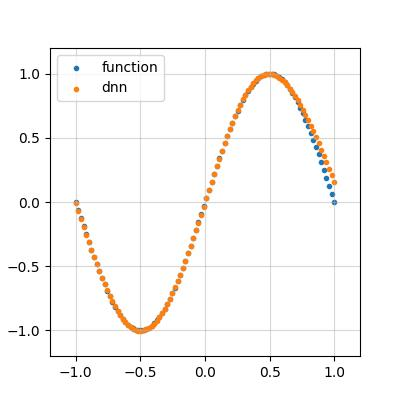
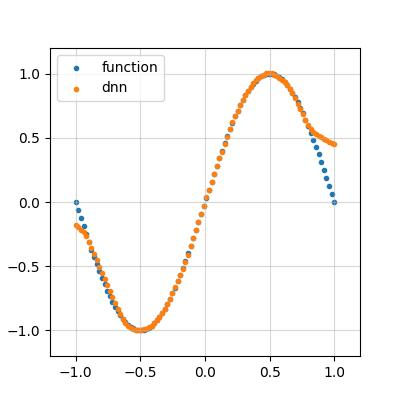
add code

diff --git a/00_tf2/main.py b/00_tf2/main.py
@@ -69,9 +69,8 @@ def main():
     r_seed = 1234
 
     # perpare dataset
-    x_train = tf.random.uniform(
-        (30, 1), xmin, xmax, dtype=d_type
-    )
+    x_train = np.linspace(xmin, xmax, int(nx / 5))
+    x_train = tf.cast(x_train, dtype=d_type)
     y_train = tf.sin(np.pi * x_train)
 
     # define model
